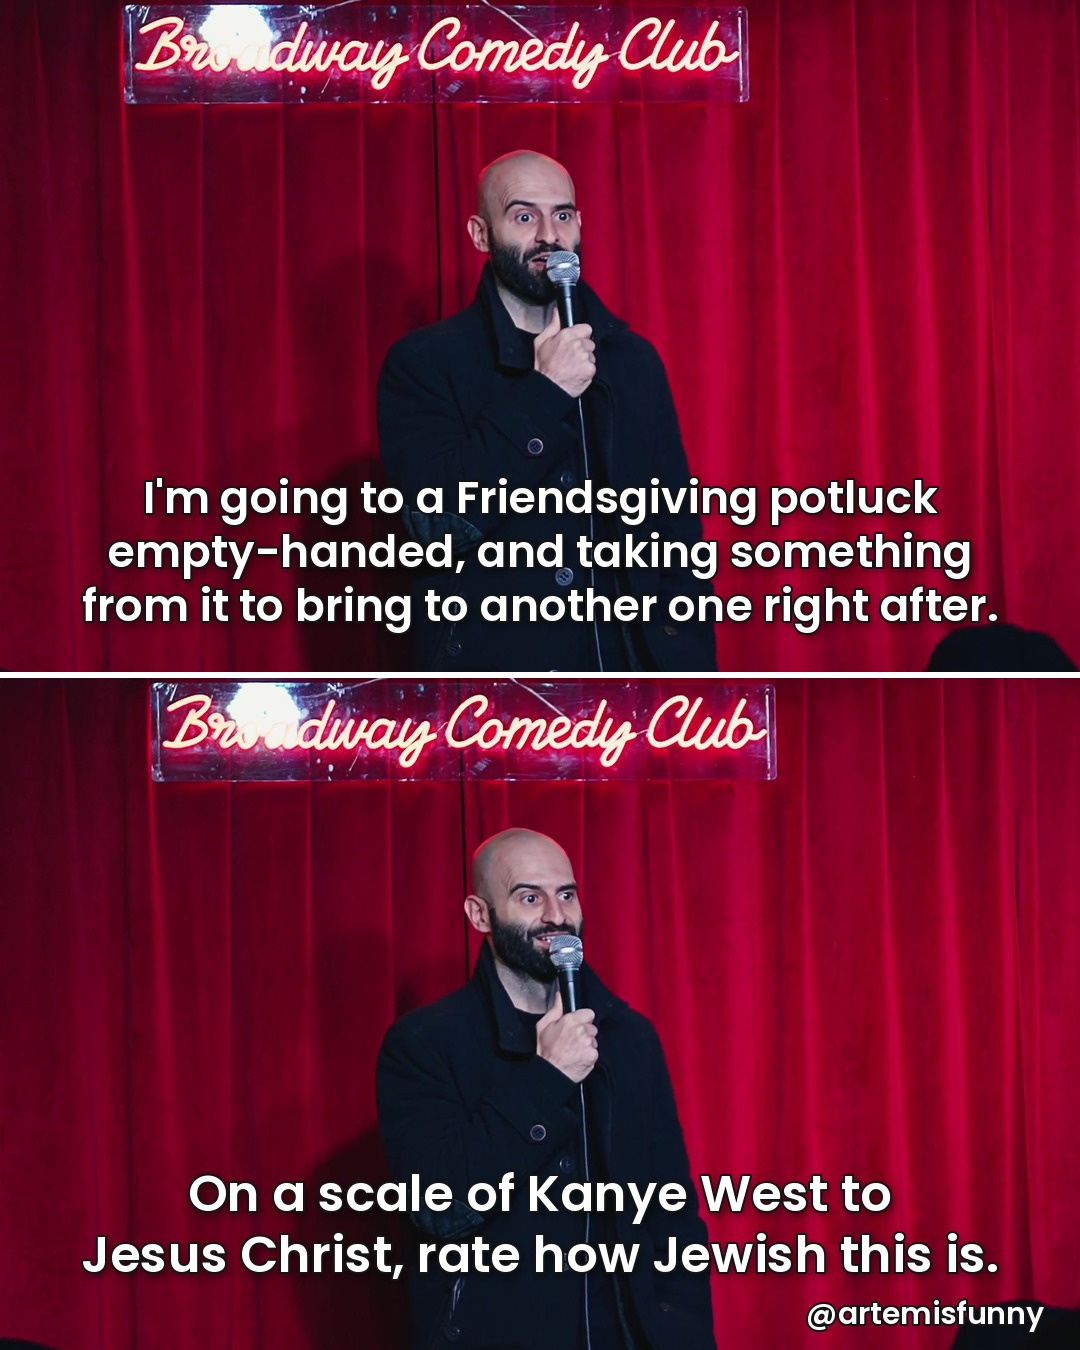
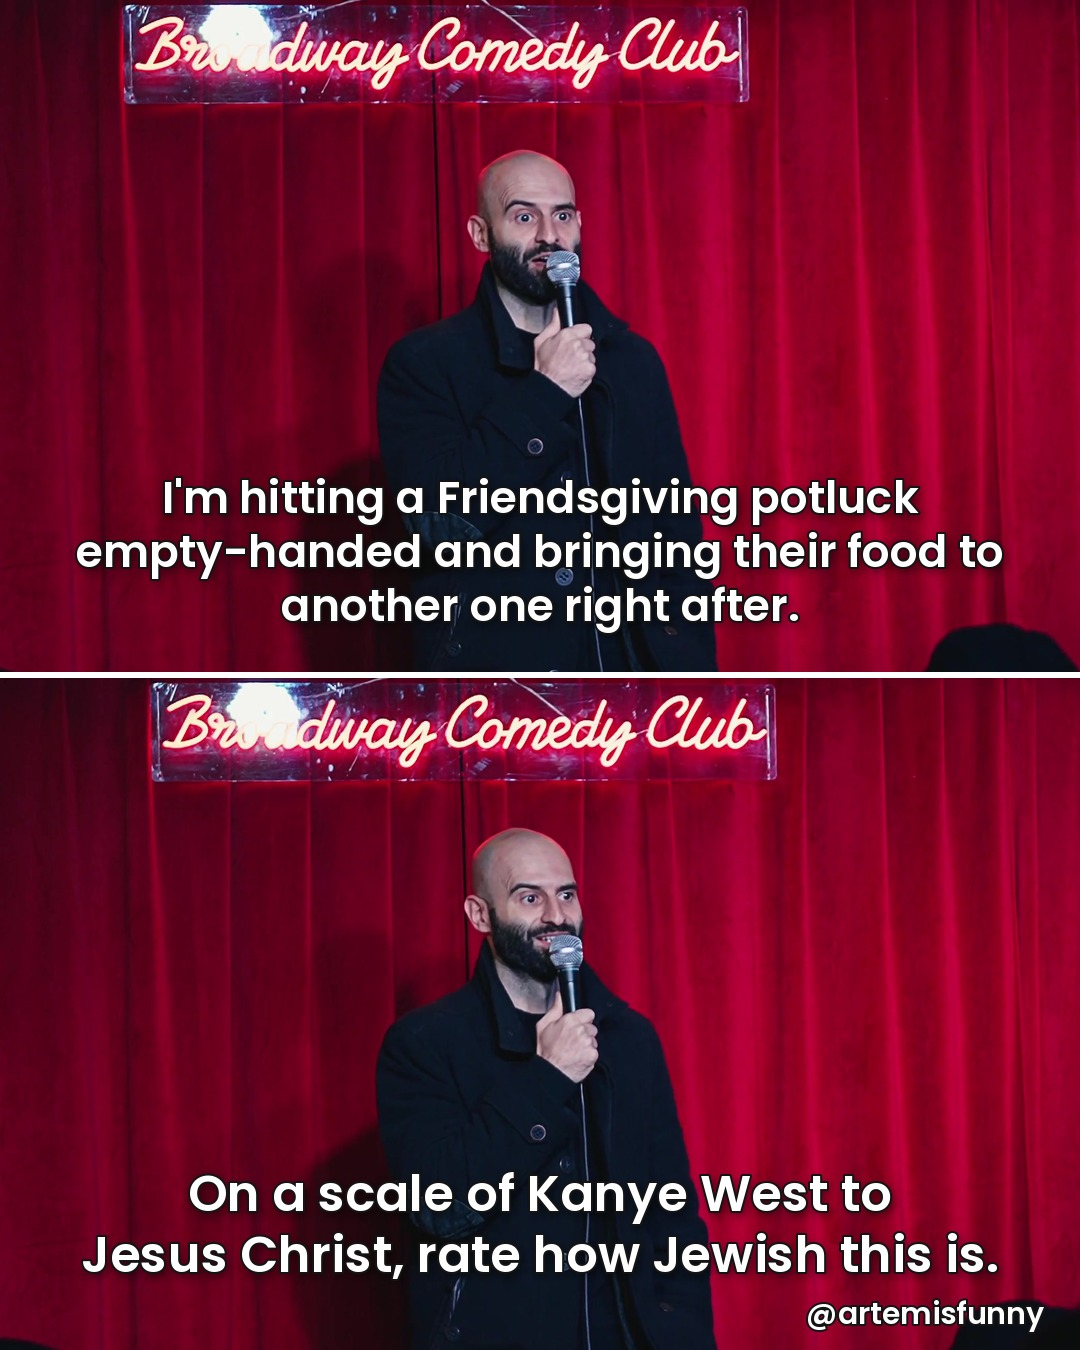
Friendsgiving Regift: final setup wording
Claude-Session: https://claude.ai/code/session_01EF93tekPbvY2HaSmcu7zPk

Changed region(s): [[0.0611, 0.3422, 0.9472, 0.4978]]

diff --git a/joke-carousels/captions-friendsgiving-regift.md b/joke-carousels/captions-friendsgiving-regift.md
@@ -1,7 +1,7 @@
 # Friendsgiving Regift (single-frame post)
 
 Joke (Artem, 2026-11-27, v3, Artem 2026-11-27: "another one right after"):
-- Top: I'm going to a Friendsgiving potluck empty-handed, and taking something from it to bring to another one right after.
+- Top: I'm hitting a Friendsgiving potluck empty-handed and bringing their food to another one right after.
 - Bottom: On a scale of Kanye West to Jesus Christ, rate how Jewish this is.
 
 Untested on stage. This post is the test: comments decide whether it becomes a stage bit (seasonal window ~Nov 15-30).
